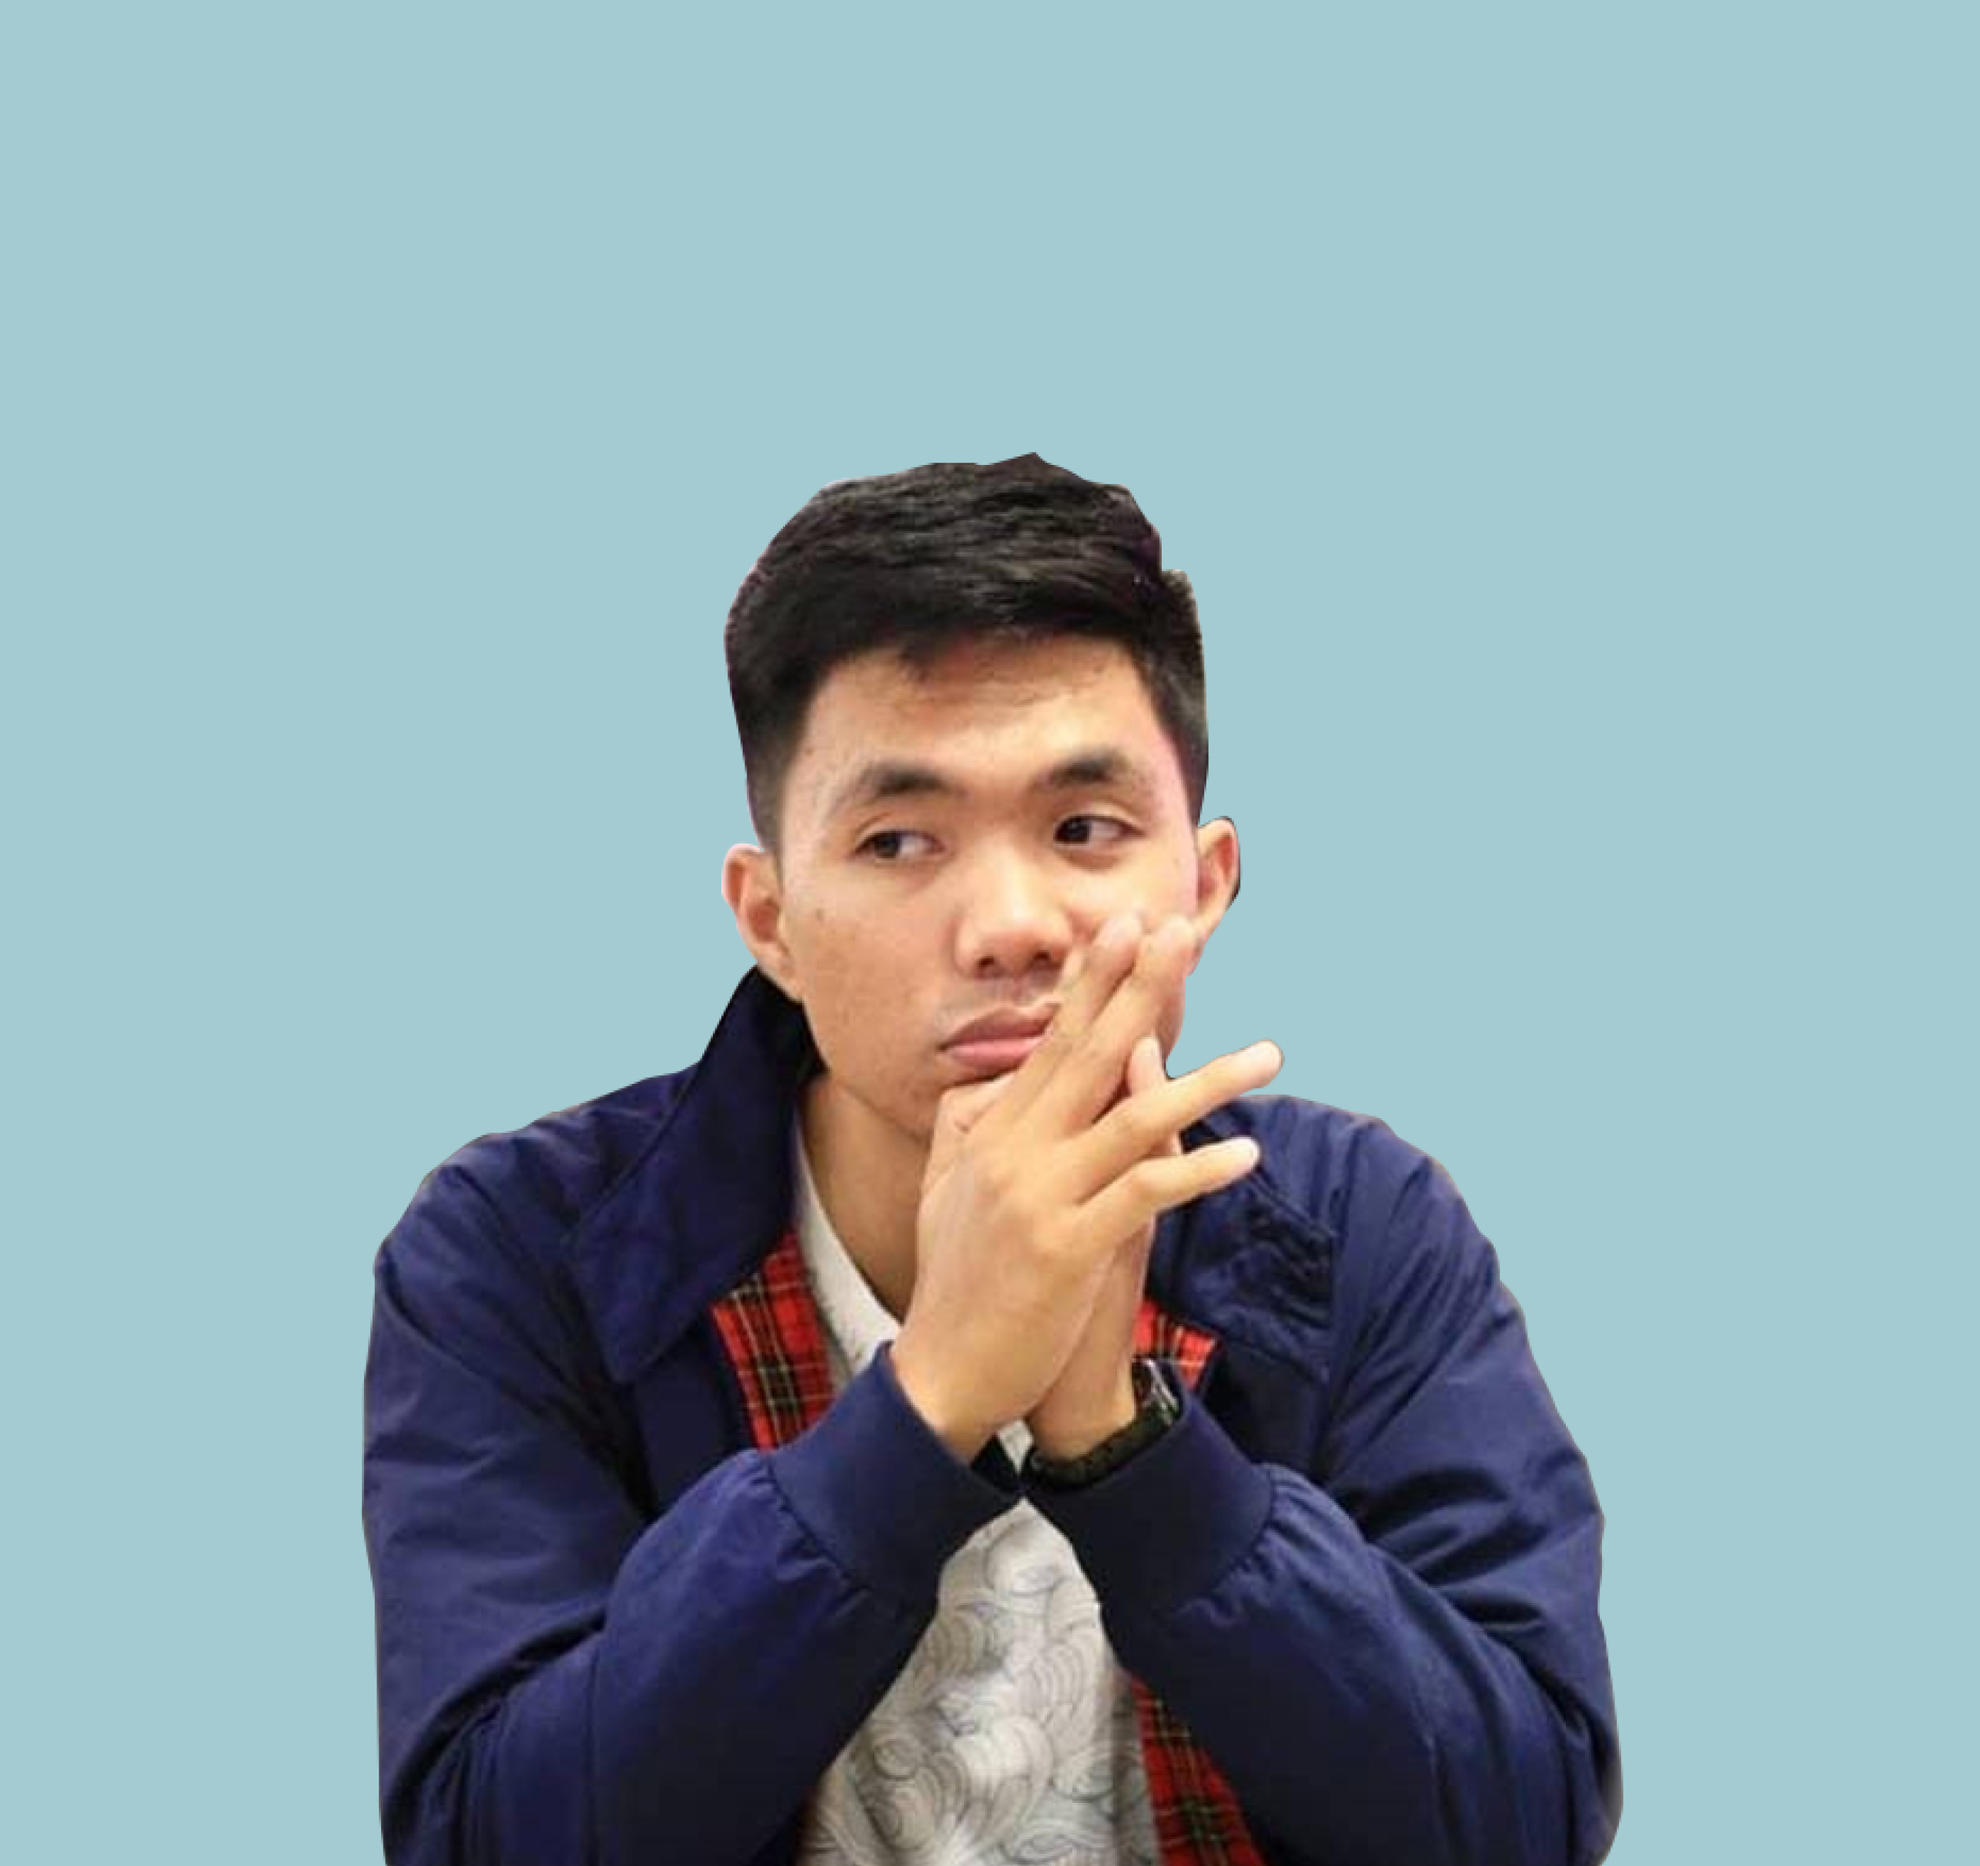
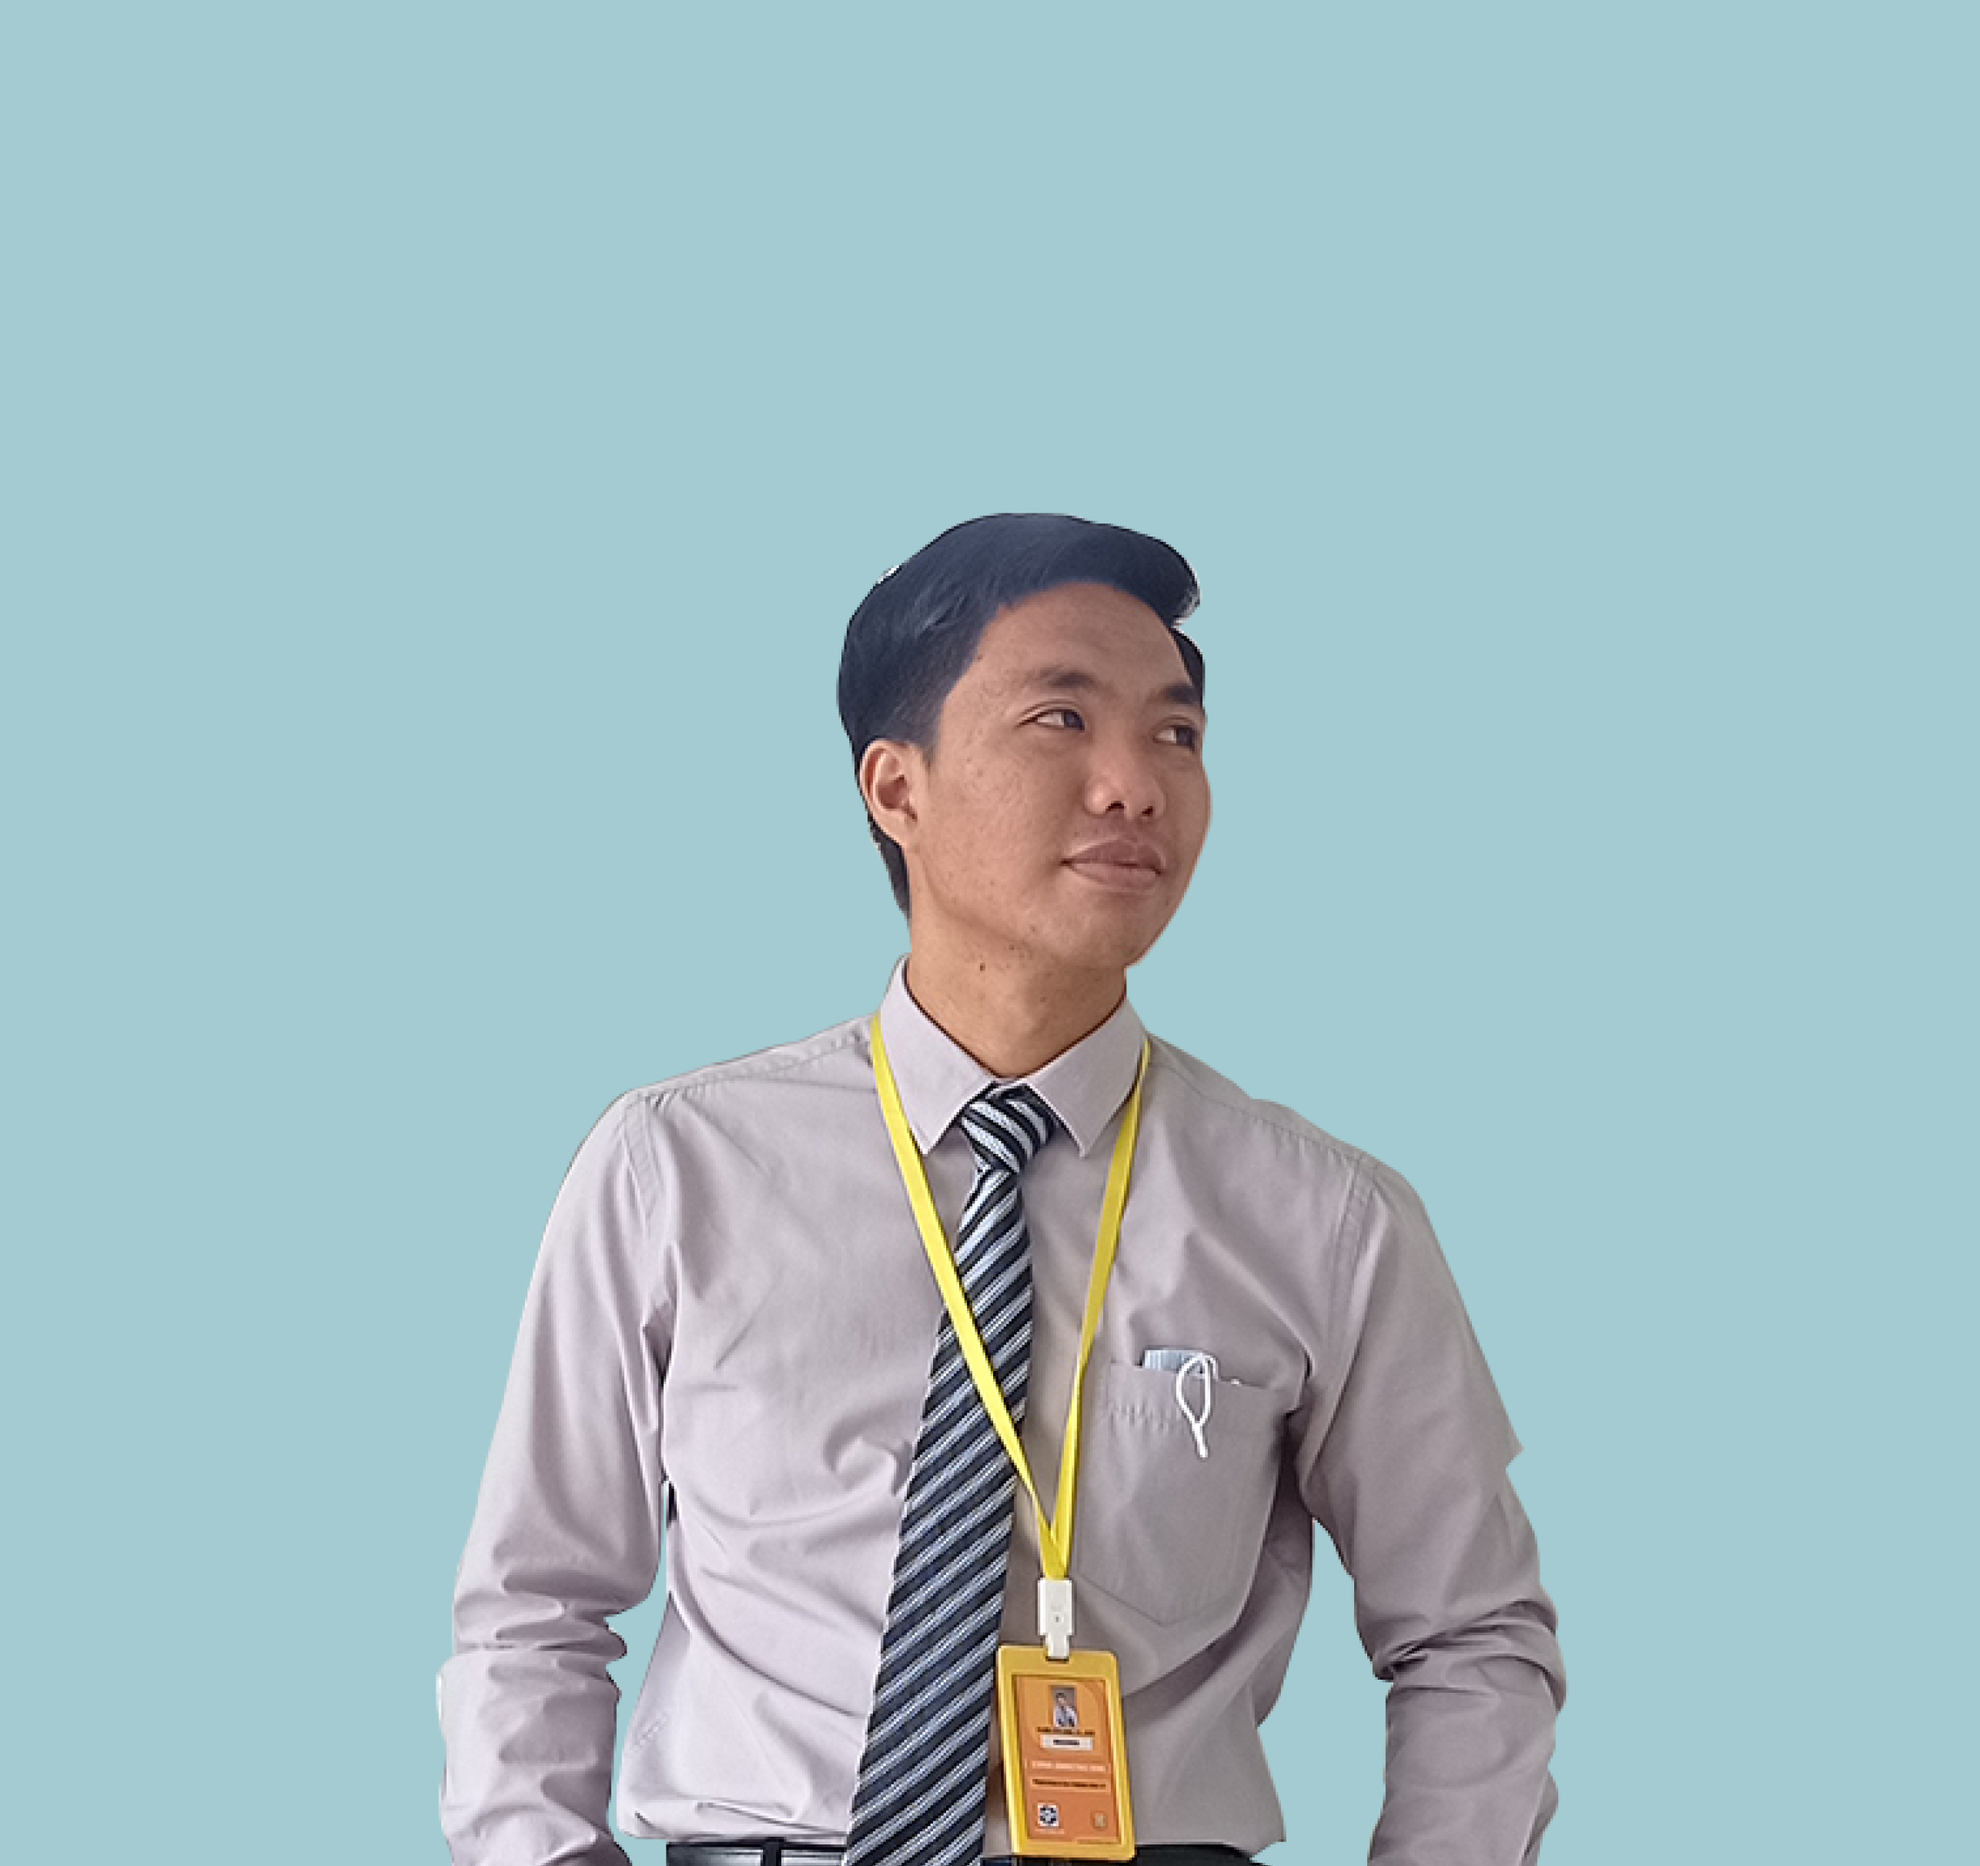
ganti foto juna

diff --git a/assets/css/style.css b/assets/css/style.css
@@ -509,9 +509,6 @@ section {
 }
 
 /*--------------------------------------------------------------
-# Index Page
---------------------------------------------------------------*/
-/*--------------------------------------------------------------
 # About
 --------------------------------------------------------------*/
 .about .content {

diff --git a/index.html b/index.html
@@ -85,6 +85,7 @@
           <img src="assets/img/bground.svg" class="img-fluid" alt="">
         </div>
       </div>
+
     </div>
 
   </section><!-- End Hero -->
